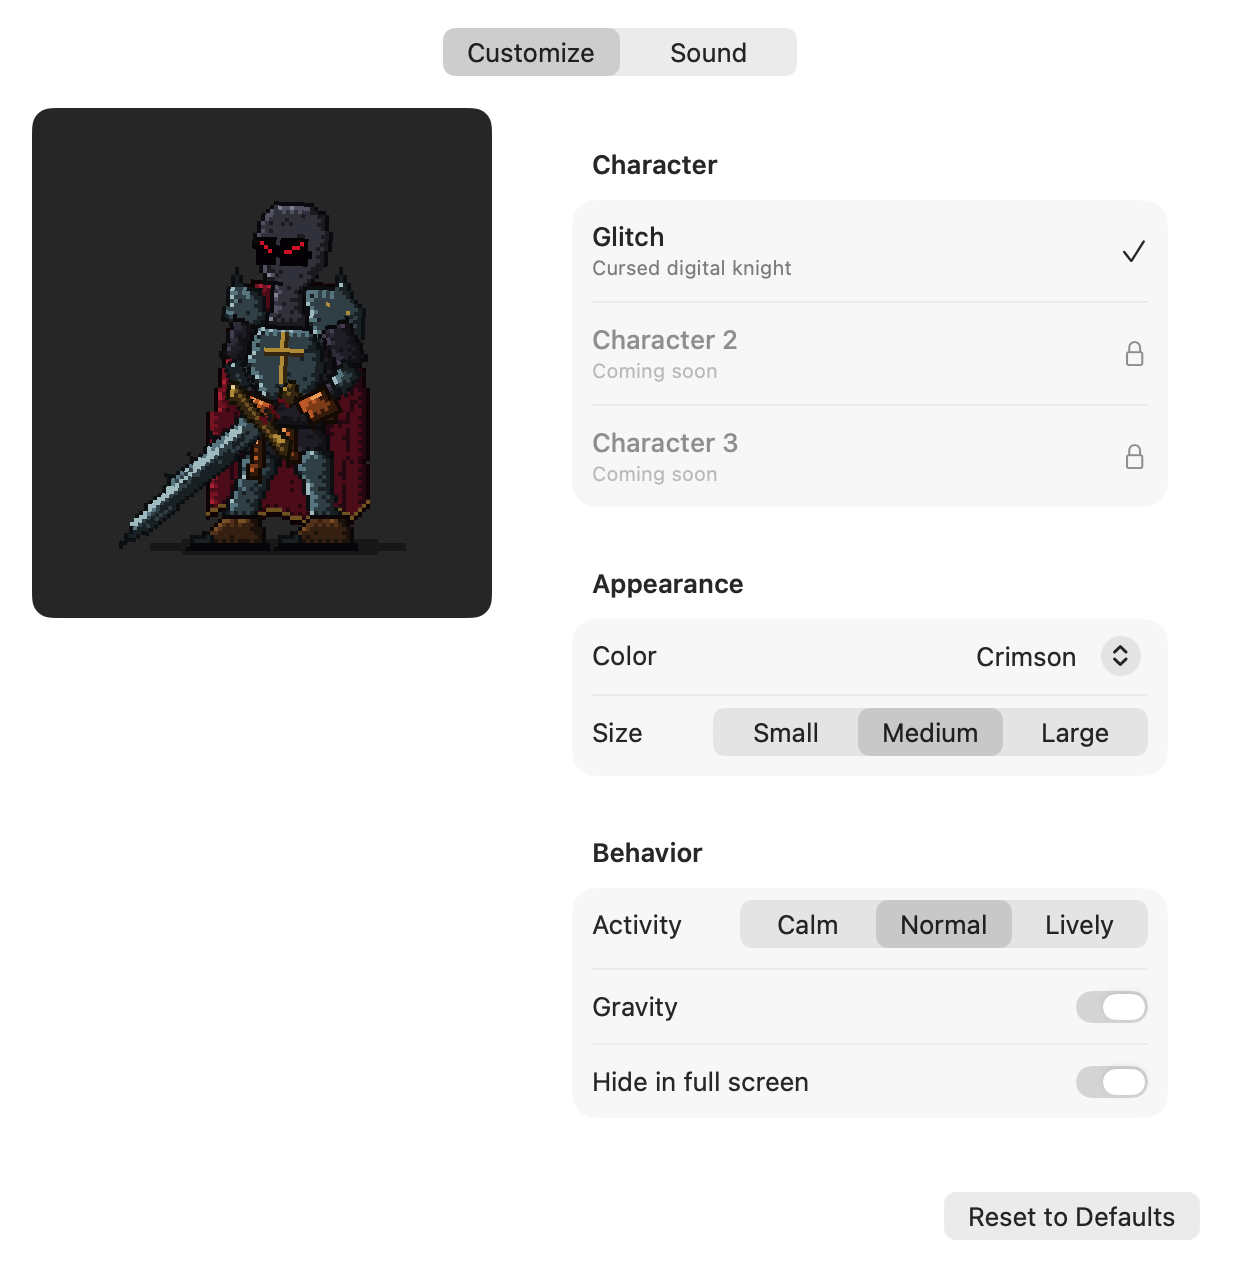
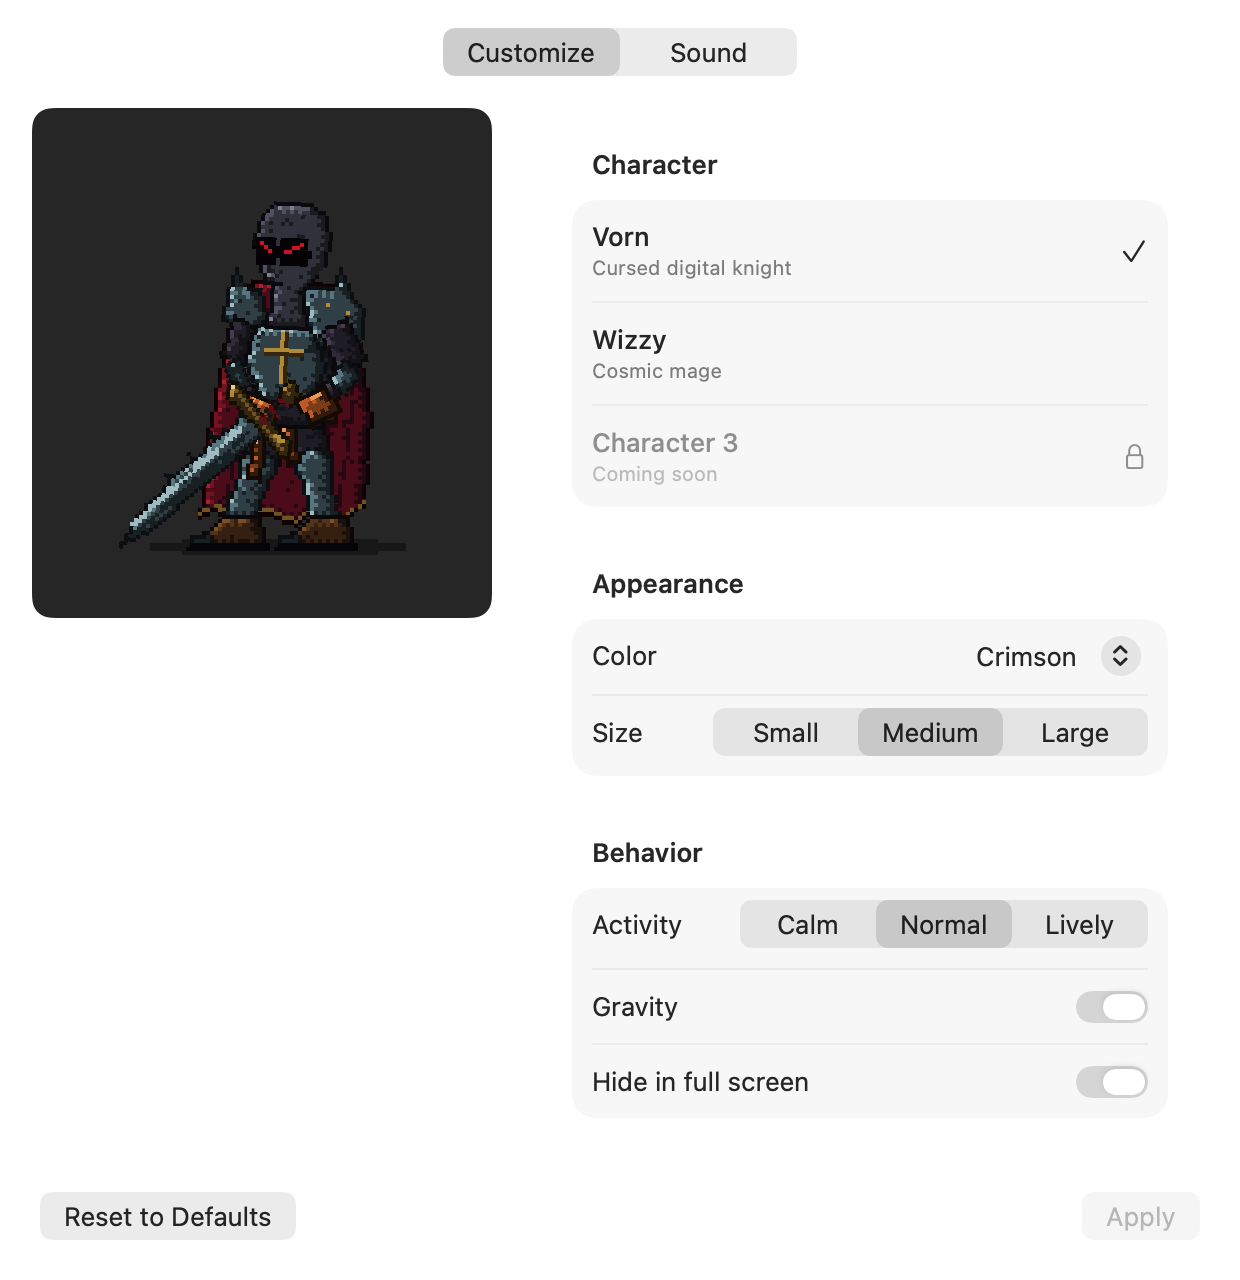
[App] Character switch with Apply: the old one says goodbye, the new one makes its entrance
Customize and the welcome screen only pick a character; Apply (or Start) asks the
app to switch, which plays the current character's farewell and then the new
character's wake. Reset to Defaults no longer touches the character.

diff --git a/Glitch/SettingsView.swift b/Glitch/SettingsView.swift
@@ -3,6 +3,9 @@ import SwiftUI
 /// The Customize and Sound window opened from the menu bar.
 struct SettingsView: View {
     @AppStorage(Prefs.settingsTab) private var tab = "customize"
+    @AppStorage(Prefs.character) private var character = "glitch"
+    /// The character picked in the list but not applied yet.
+    @State private var picked: String?
 
     var body: some View {
         // a plain segmented switcher instead of TabView, whose tabs end up in the title bar on recent macOS
@@ -16,12 +19,20 @@ struct SettingsView: View {
             .fixedSize()
             .padding(.top, 14)
 
-            if tab == "sound" { SoundTab() } else { CustomizeTab() }
+            if tab == "sound" { SoundTab() } else { CustomizeTab(picked: $picked) }
 
             HStack {
-                Spacer()
                 Button("Reset to Defaults") {
                     Prefs.reset(tab == "sound" ? Prefs.soundKeys : Prefs.customizeKeys)
+                }
+                Spacer()
+                if tab == "customize" {
+                    Button("Apply") {
+                        if let picked { Prefs.requestCharacter(picked) }
+                        picked = nil
+                    }
+                    .keyboardShortcut(.defaultAction)
+                    .disabled(picked == nil || picked == character)
                 }
             }
             .padding([.horizontal, .bottom], 20)
@@ -31,6 +42,7 @@ struct SettingsView: View {
 }
 
 private struct CustomizeTab: View {
+    @Binding var picked: String?
     @AppStorage(Prefs.character) private var character = "glitch"
     @AppStorage(Prefs.scale) private var scale = 2.0
     @AppStorage(Prefs.hue) private var hue = 0.0
@@ -53,7 +65,7 @@ private struct CustomizeTab: View {
                 Section("Character") {
                     ForEach(CharacterInfo.all) { info in
                         Button {
-                            character = info.id
+                            picked = info.id
                         } label: {
                             HStack {
                                 VStack(alignment: .leading) {
@@ -61,7 +73,7 @@ private struct CustomizeTab: View {
                                     Text(info.theme).font(.caption).foregroundStyle(.secondary)
                                 }
                                 Spacer()
-                                if character == info.id { Image(systemName: "checkmark") }
+                                if (picked ?? character) == info.id { Image(systemName: "checkmark") }
                                 if !info.available { Image(systemName: "lock") }
                             }
                             .contentShape(.rect)

diff --git a/Glitch/GlitchApp.swift b/Glitch/GlitchApp.swift
@@ -205,6 +205,10 @@ final class AppDelegate: NSObject, NSApplicationDelegate {
             return screen.visibleFrame.minY - CGFloat(RobotView.padBottom) * RobotView.scale
         }
         applyPrefs()
+        NotificationCenter.default.addObserver(forName: Prefs.switchCharacter, object: nil, queue: .main) { [weak self] note in
+            guard let id = note.object as? String else { return }
+            MainActor.assumeIsolated { self?.switchCharacter(to: id) }
+        }
         NotificationCenter.default.addObserver(forName: UserDefaults.didChangeNotification, object: nil, queue: .main) { [weak self] _ in
             MainActor.assumeIsolated { self?.applyPrefs() }
         }
@@ -389,6 +393,23 @@ final class AppDelegate: NSObject, NSApplicationDelegate {
     }
 
     /// Plays the arrival at most once every 20 s; waking, unlocking and un-hiding often come in bursts.
+    private var switchingCharacter = false
+
+    /// Customize › Apply: the current character leaves with its own goodbye, then the new one arrives its own way.
+    private func switchCharacter(to id: String) {
+        guard !switchingCharacter, id != Prefs.d.string(forKey: Prefs.character) else { return }
+        guard let window, window.isVisible else { Prefs.d.set(id, forKey: Prefs.character); return }
+        switchingCharacter = true
+        brain.start(.farewell)
+        DispatchQueue.main.asyncAfter(deadline: .now() + brain.farewellLength) { [weak self] in
+            guard let self else { return }
+            Prefs.d.set(id, forKey: Prefs.character)
+            lastWake = CACurrentMediaTime()
+            brain.start(.wake)
+            switchingCharacter = false
+        }
+    }
+
     private func wakeUp() {
         let now = CACurrentMediaTime()
         guard now - lastWake > 20 else { return }

diff --git a/Glitch/WelcomeView.swift b/Glitch/WelcomeView.swift
@@ -6,6 +6,7 @@ struct WelcomeView: View {
     @Environment(\.dismissWindow) private var dismissWindow
     @AppStorage(Prefs.welcomed) private var welcomed = false
     @AppStorage(Prefs.character) private var character = "glitch"
+    @State private var picked: String?   // applied with Start, so the switch plays its goodbye and entrance
     @State private var openAtLogin = SMAppService.mainApp.status == .enabled
     @State private var sentinelInstalled = HookSetup.isInstalled
 
@@ -26,7 +27,7 @@ struct WelcomeView: View {
                 Section("Choose your companion") {
                     HStack(spacing: 12) {
                         ForEach(CharacterInfo.all.filter(\.available)) { info in
-                            CharacterCard(info: info, selected: character == info.id) { character = info.id }
+                            CharacterCard(info: info, selected: (picked ?? character) == info.id) { picked = info.id }
                         }
                     }
                 }
@@ -70,6 +71,7 @@ struct WelcomeView: View {
                     .foregroundStyle(.secondary)
                 Spacer()
                 Button("Start") {
+                    if let picked, picked != character { Prefs.requestCharacter(picked) }
                     welcomed = true
                     dismissWindow(id: "welcome")
                 }

diff --git a/Glitch/Prefs.swift b/Glitch/Prefs.swift
@@ -24,7 +24,12 @@ enum Prefs {
 
     static var d: UserDefaults { .standard }
 
-    static let customizeKeys = [character, scale, hue, liveliness, gravity, hideInFullscreen]
+    /// Reset leaves the character alone: changing it is an animated switch, done with Apply.
+    static let customizeKeys = [scale, hue, liveliness, gravity, hideInFullscreen]
+
+    /// Asks the app to switch characters: the current one says goodbye, then the new one makes its entrance.
+    static let switchCharacter = Notification.Name("switchCharacter")
+    static func requestCharacter(_ id: String) { NotificationCenter.default.post(name: switchCharacter, object: id) }
     static var soundKeys: [String] { [volume, muted] + SoundGroup.allCases.map(\.key) }
 
     /// Back to the registered defaults: removing a key makes UserDefaults fall back to them.
